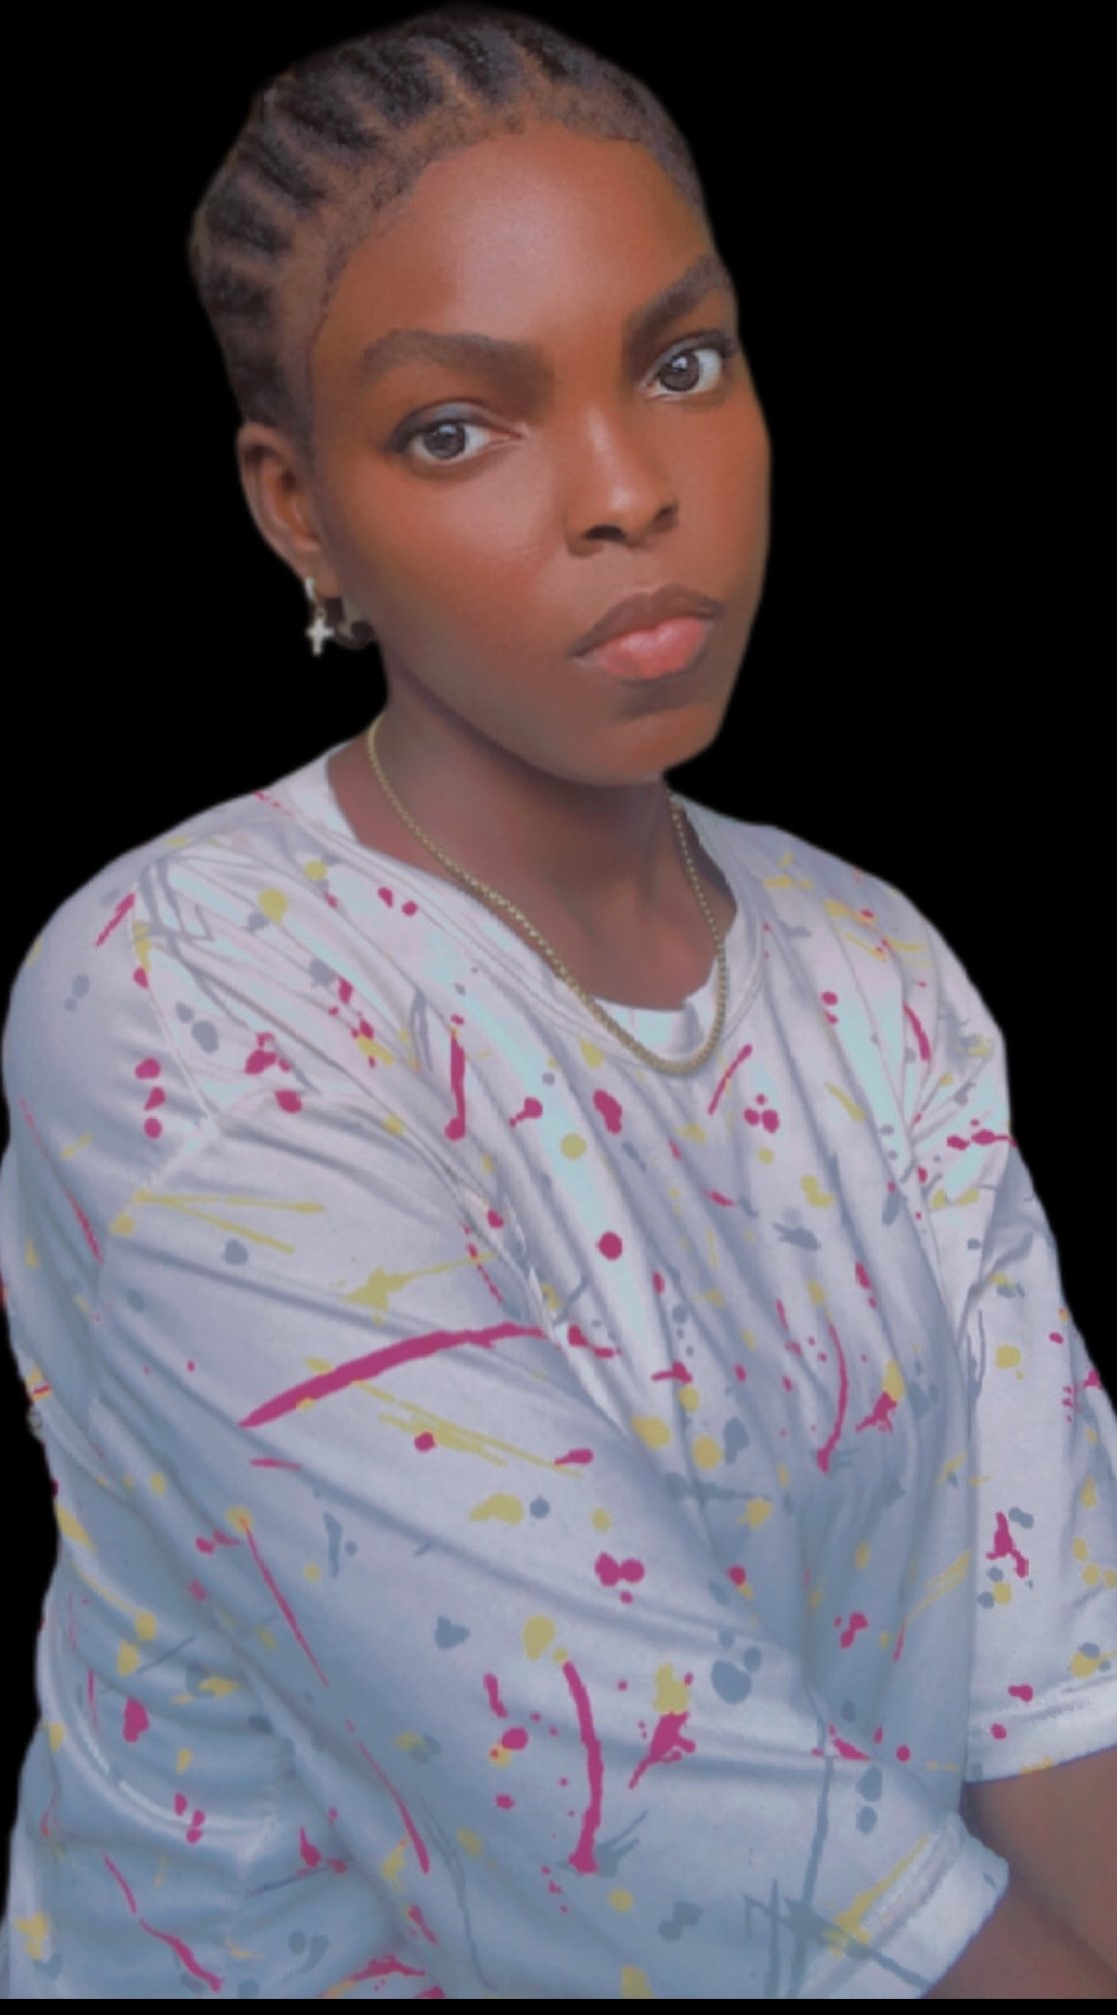
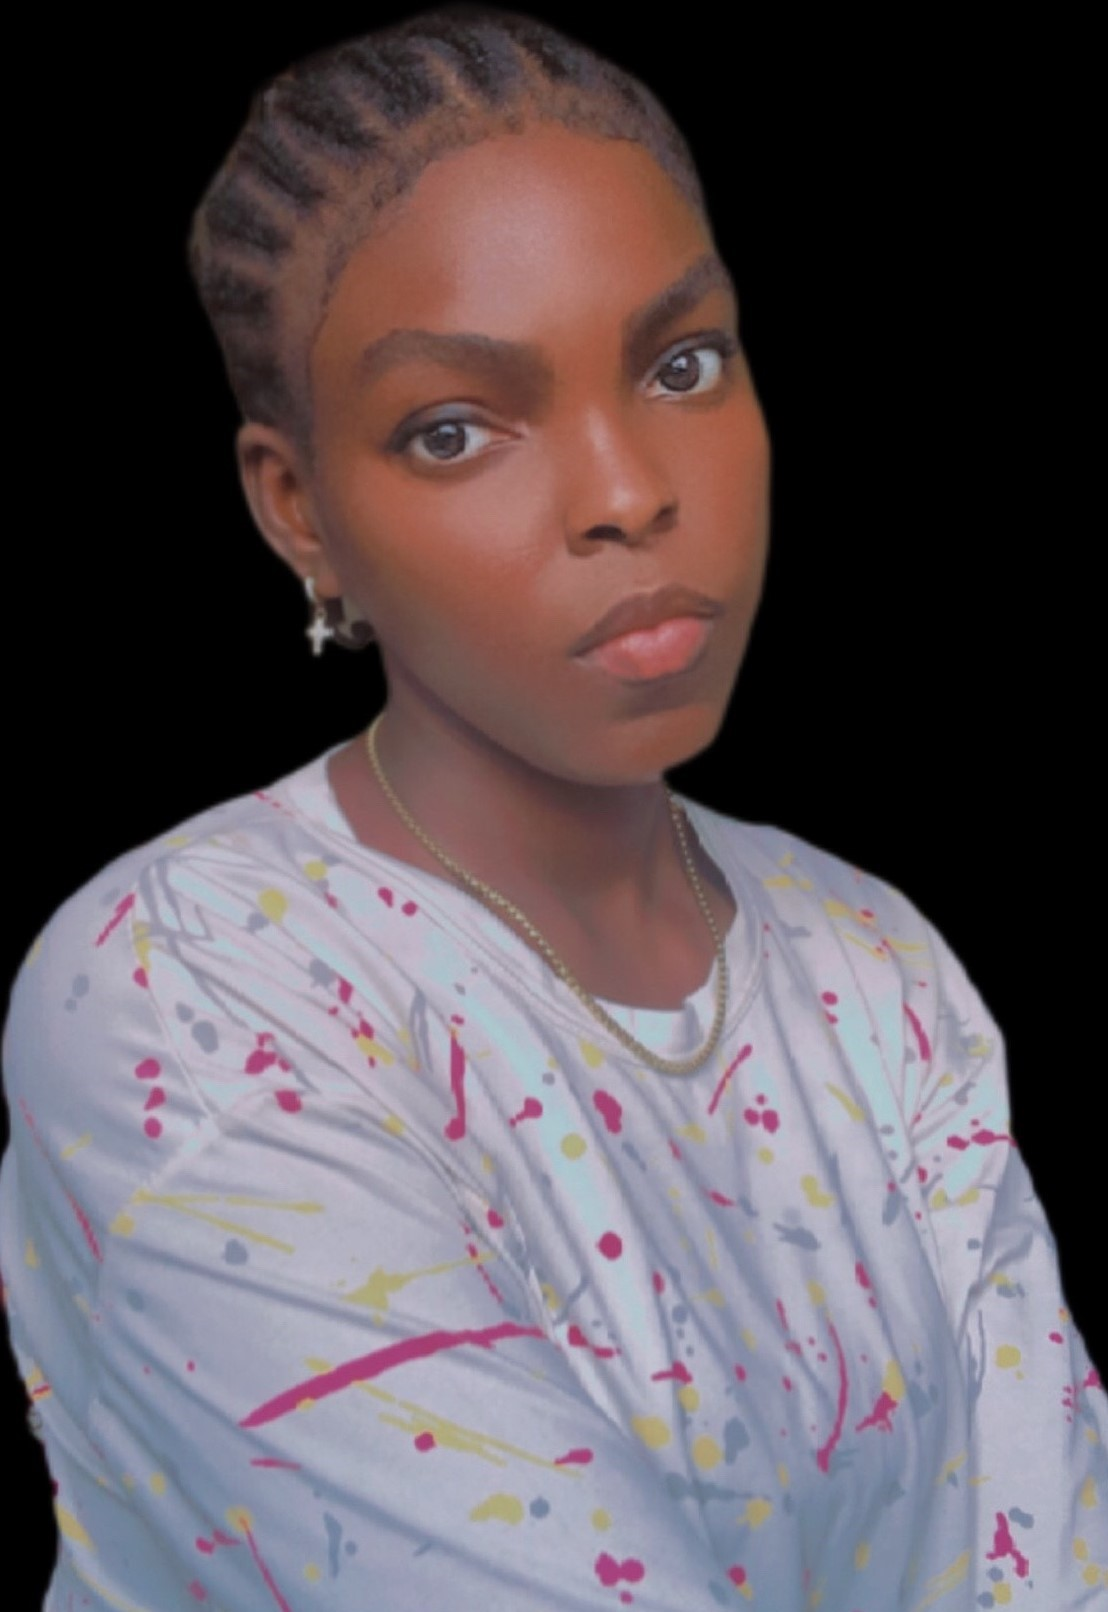
font size and background image

diff --git a/style.css b/style.css
@@ -14,26 +14,27 @@ p {
 }
 span {
     color: red;
-    font-size: 90px;
+    font-size: 350px;
     font-weight: px;
     letter-spacing: normal;
 }
 div.text--wrapper {
     width: 40%;
+    height: 100vh;
     font-family: Dosis;
-    font-size: 50px;
+    font-size: 200px;
     text-align: left;
     word-wrap: normal;
     margin-left: 7%;
 }
 div.background--wrapper {
-    background-image: url(images/victoria.png);
+    background-image: url(images/victoria.jpg);
     background-position: center;
-    background-size: auto;
+    background-size:contain;
     width: 60%;
+    float: right;
     height: 100vh;
     border-top: 0px;
-    margin-top: 40px;
     background-repeat: no-repeat;
 }
 div.main--wrapper{
